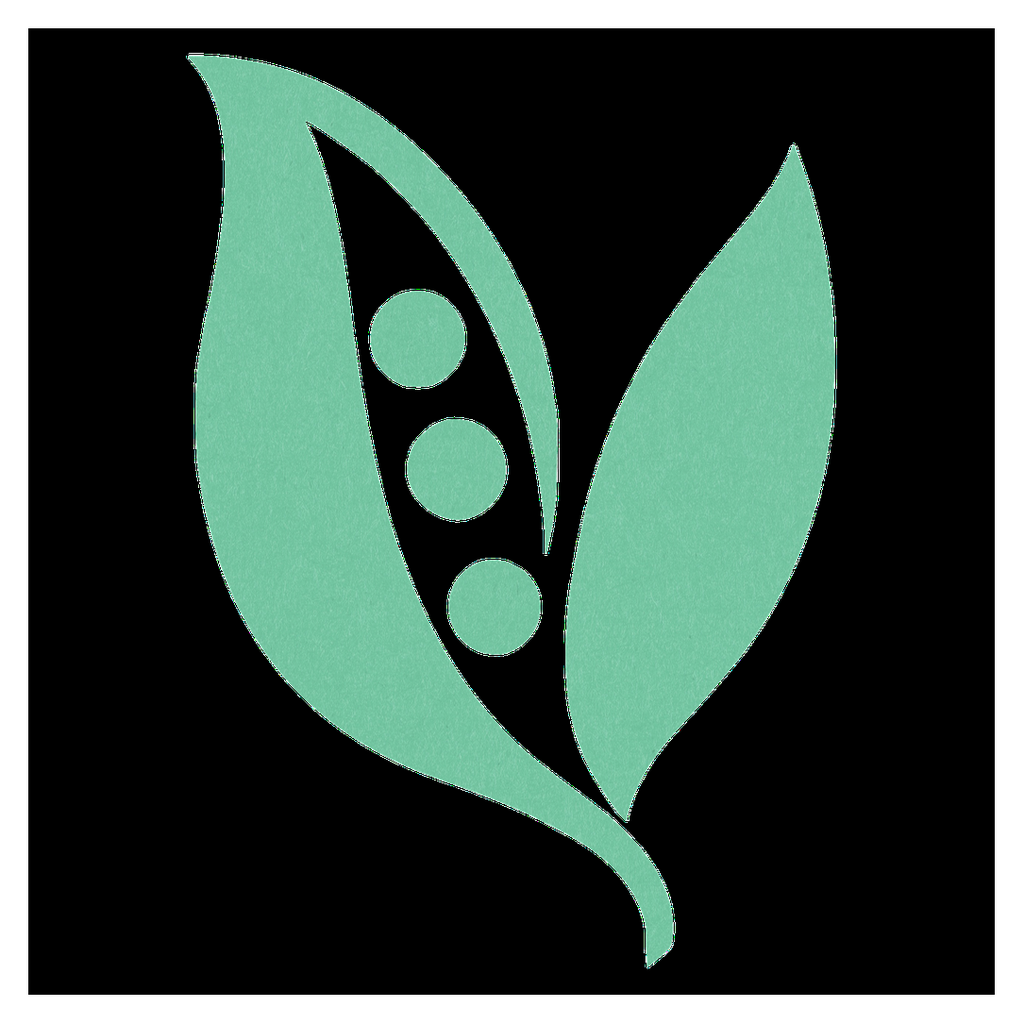
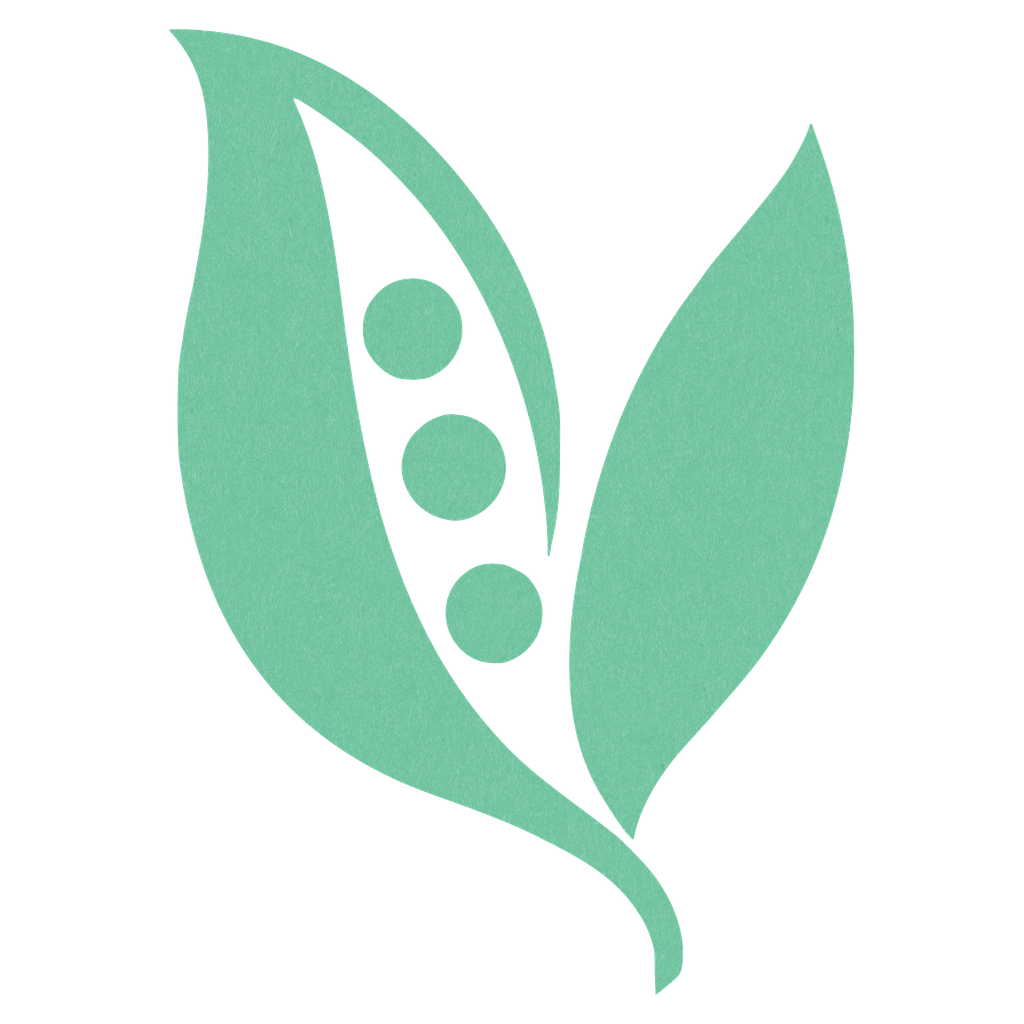
Brand master: restore the transparent pea mark; the white key keeps existing alpha
ceeaebdd committed a master rewritten by a rerun on itself, where fully transparent pixels
(stored as black) read as opaque. The public icons in that commit were already correct.

diff --git a/ts/apps/web/brand/make-icons.py b/ts/apps/web/brand/make-icons.py
@@ -13,10 +13,10 @@ px = im.load()
 w, h = im.size
 for y in range(h):
     for x in range(w):
-        r, g, b, _ = px[x, y]
+        r, g, b, a0 = px[x, y]
         d = 255 - min(r, g, b)  # 0 on white, ~90 on the green
         a = 0 if d < 8 else 255 if d > 40 else int((d - 8) * 255 / 32)
-        px[x, y] = (r, g, b, a)
+        px[x, y] = (r, g, b, min(a0, a))  # keep existing transparency (rerun on brand/pea.png)
 
 # Crop to the mark, then pad to a square with a small margin so it fills the icon.
 box = im.getbbox()
